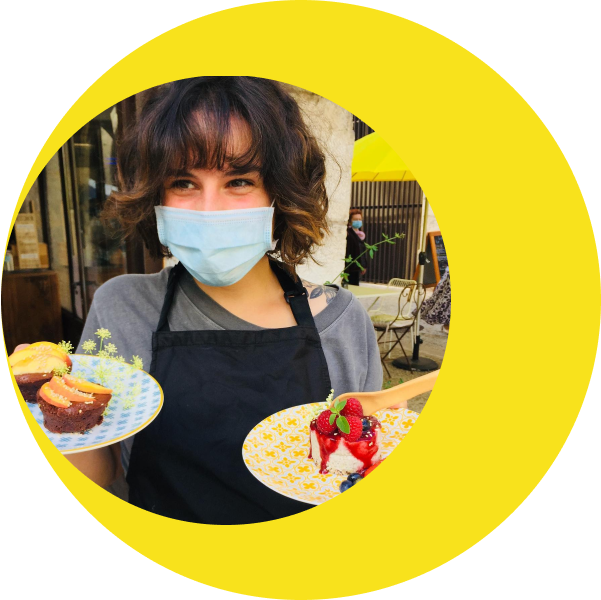
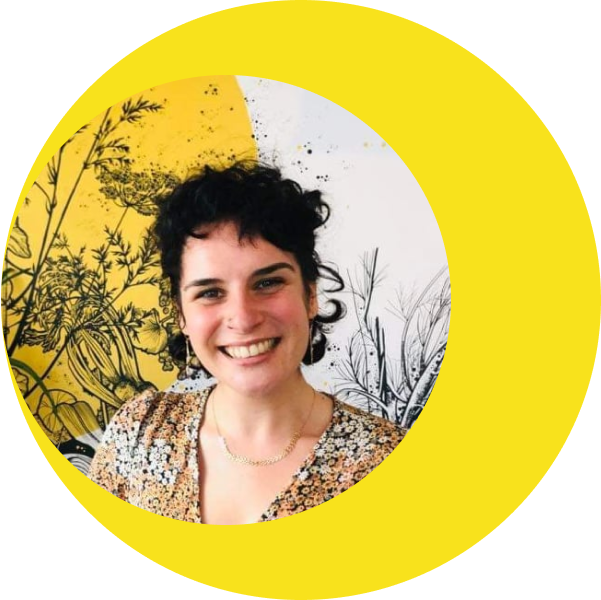
controle des couleurs, maj de la photo d'émilie, création de la route de la deuxième page

diff --git a/public/css/styles.css b/public/css/styles.css
@@ -67,8 +67,12 @@ nav {
     height: 100px;
 }
 
-a {
+.links {
     text-decoration: none;
+}
+
+.links:active {
+    text-decoration: #A89505;
 }
 
 a:hover {
@@ -117,9 +121,7 @@ a:hover {
     right: 0;
 }
 
-.link:active {
-    color: #A89505;
-}
+
 
 .instaicon {
     padding-left: 32px;
@@ -169,7 +171,7 @@ h2 {
 
 .concepttext {
     margin-right: 36px;
-    color:#2e2e29;
+    color:#131311;
 }
 
 p {
@@ -232,7 +234,7 @@ h4 {
     font-style: italic;
     font-size: 20px;
     line-height: 140%;
-    color: #2e2e29;
+    color: #131311;
 }
 
 .quotemark2 {
@@ -493,7 +495,7 @@ input {
     width: 378px;
     height: 60px;
     border-radius: 10px;
-    border: gray solid 1px;
+    border: #c8c8c1 solid 1px;
 }
 
 input::placeholder {
@@ -634,7 +636,7 @@ address {
 }
 
 .modal {
-    filter:drop-shadow(10px 5px 5px black);
+    filter:drop-shadow(10px 5px 5px #131311);
 }
 
 .modal-xl {
@@ -683,7 +685,6 @@ address {
     font-size: 36px;
     line-height: 140%;
     width: 384px;
-    /* margin-left: 48px; */
 }
 
 .text1-wrapper, .text2-wrapper {

diff --git a/public/js/newsletter.js b/public/js/newsletter.js
@@ -4,7 +4,7 @@
 //Affichage de la pop up au bout de 5 secondes
 $(function(){
     setTimeout(function(){
-    $('#myModal').modal('show');
+        $('#myModal').modal('show');
     },5000);
 })
 

diff --git a/resources/views/homepage.blade.php b/resources/views/homepage.blade.php
@@ -32,7 +32,7 @@
                 <div class="navbar">
                     <div>
                         <a class="links hvr-underline-from-left" href="#concept">Notre concept</a>
-                        <a class="links hvr-underline-from-left" href="#">Le restaurant</a>
+                        <a class="links hvr-underline-from-left" href="{{ route('restaurant') }}">Le restaurant</a>
                         <a class="links hvr-underline-from-left" href="#">Le menu</a>
                         <a class="links hvr-underline-from-left" href="#">Sensibilisation</a>
                         <a class="links hvr-underline-from-left" href="#">Formations</a>

diff --git a/routes/web.php b/routes/web.php
@@ -20,6 +20,7 @@ use App\Http\Controllers\CsvController;
 */
 
 Route::get('/', [NavController::class, 'homepage'])->name('homepage');
+Route::get('/restaurant', [NavController::class, 'restaurant'])->name('restaurant');
 Route::post('/getmail', [MailController::class, 'getmail'])->name('getmail');
 
 

diff --git a/app/Http/Controllers/NavController.php b/app/Http/Controllers/NavController.php
@@ -10,5 +10,10 @@ class NavController extends Controller
     {
         return view('homepage');
     }
+
+    public function restaurant()
+    {
+        return view('restaurant');
+    }
     
 }

diff --git a/resources/views/restaurant.blade.php b/resources/views/restaurant.blade.php
@@ -1,0 +1,1 @@
+page restaurant
